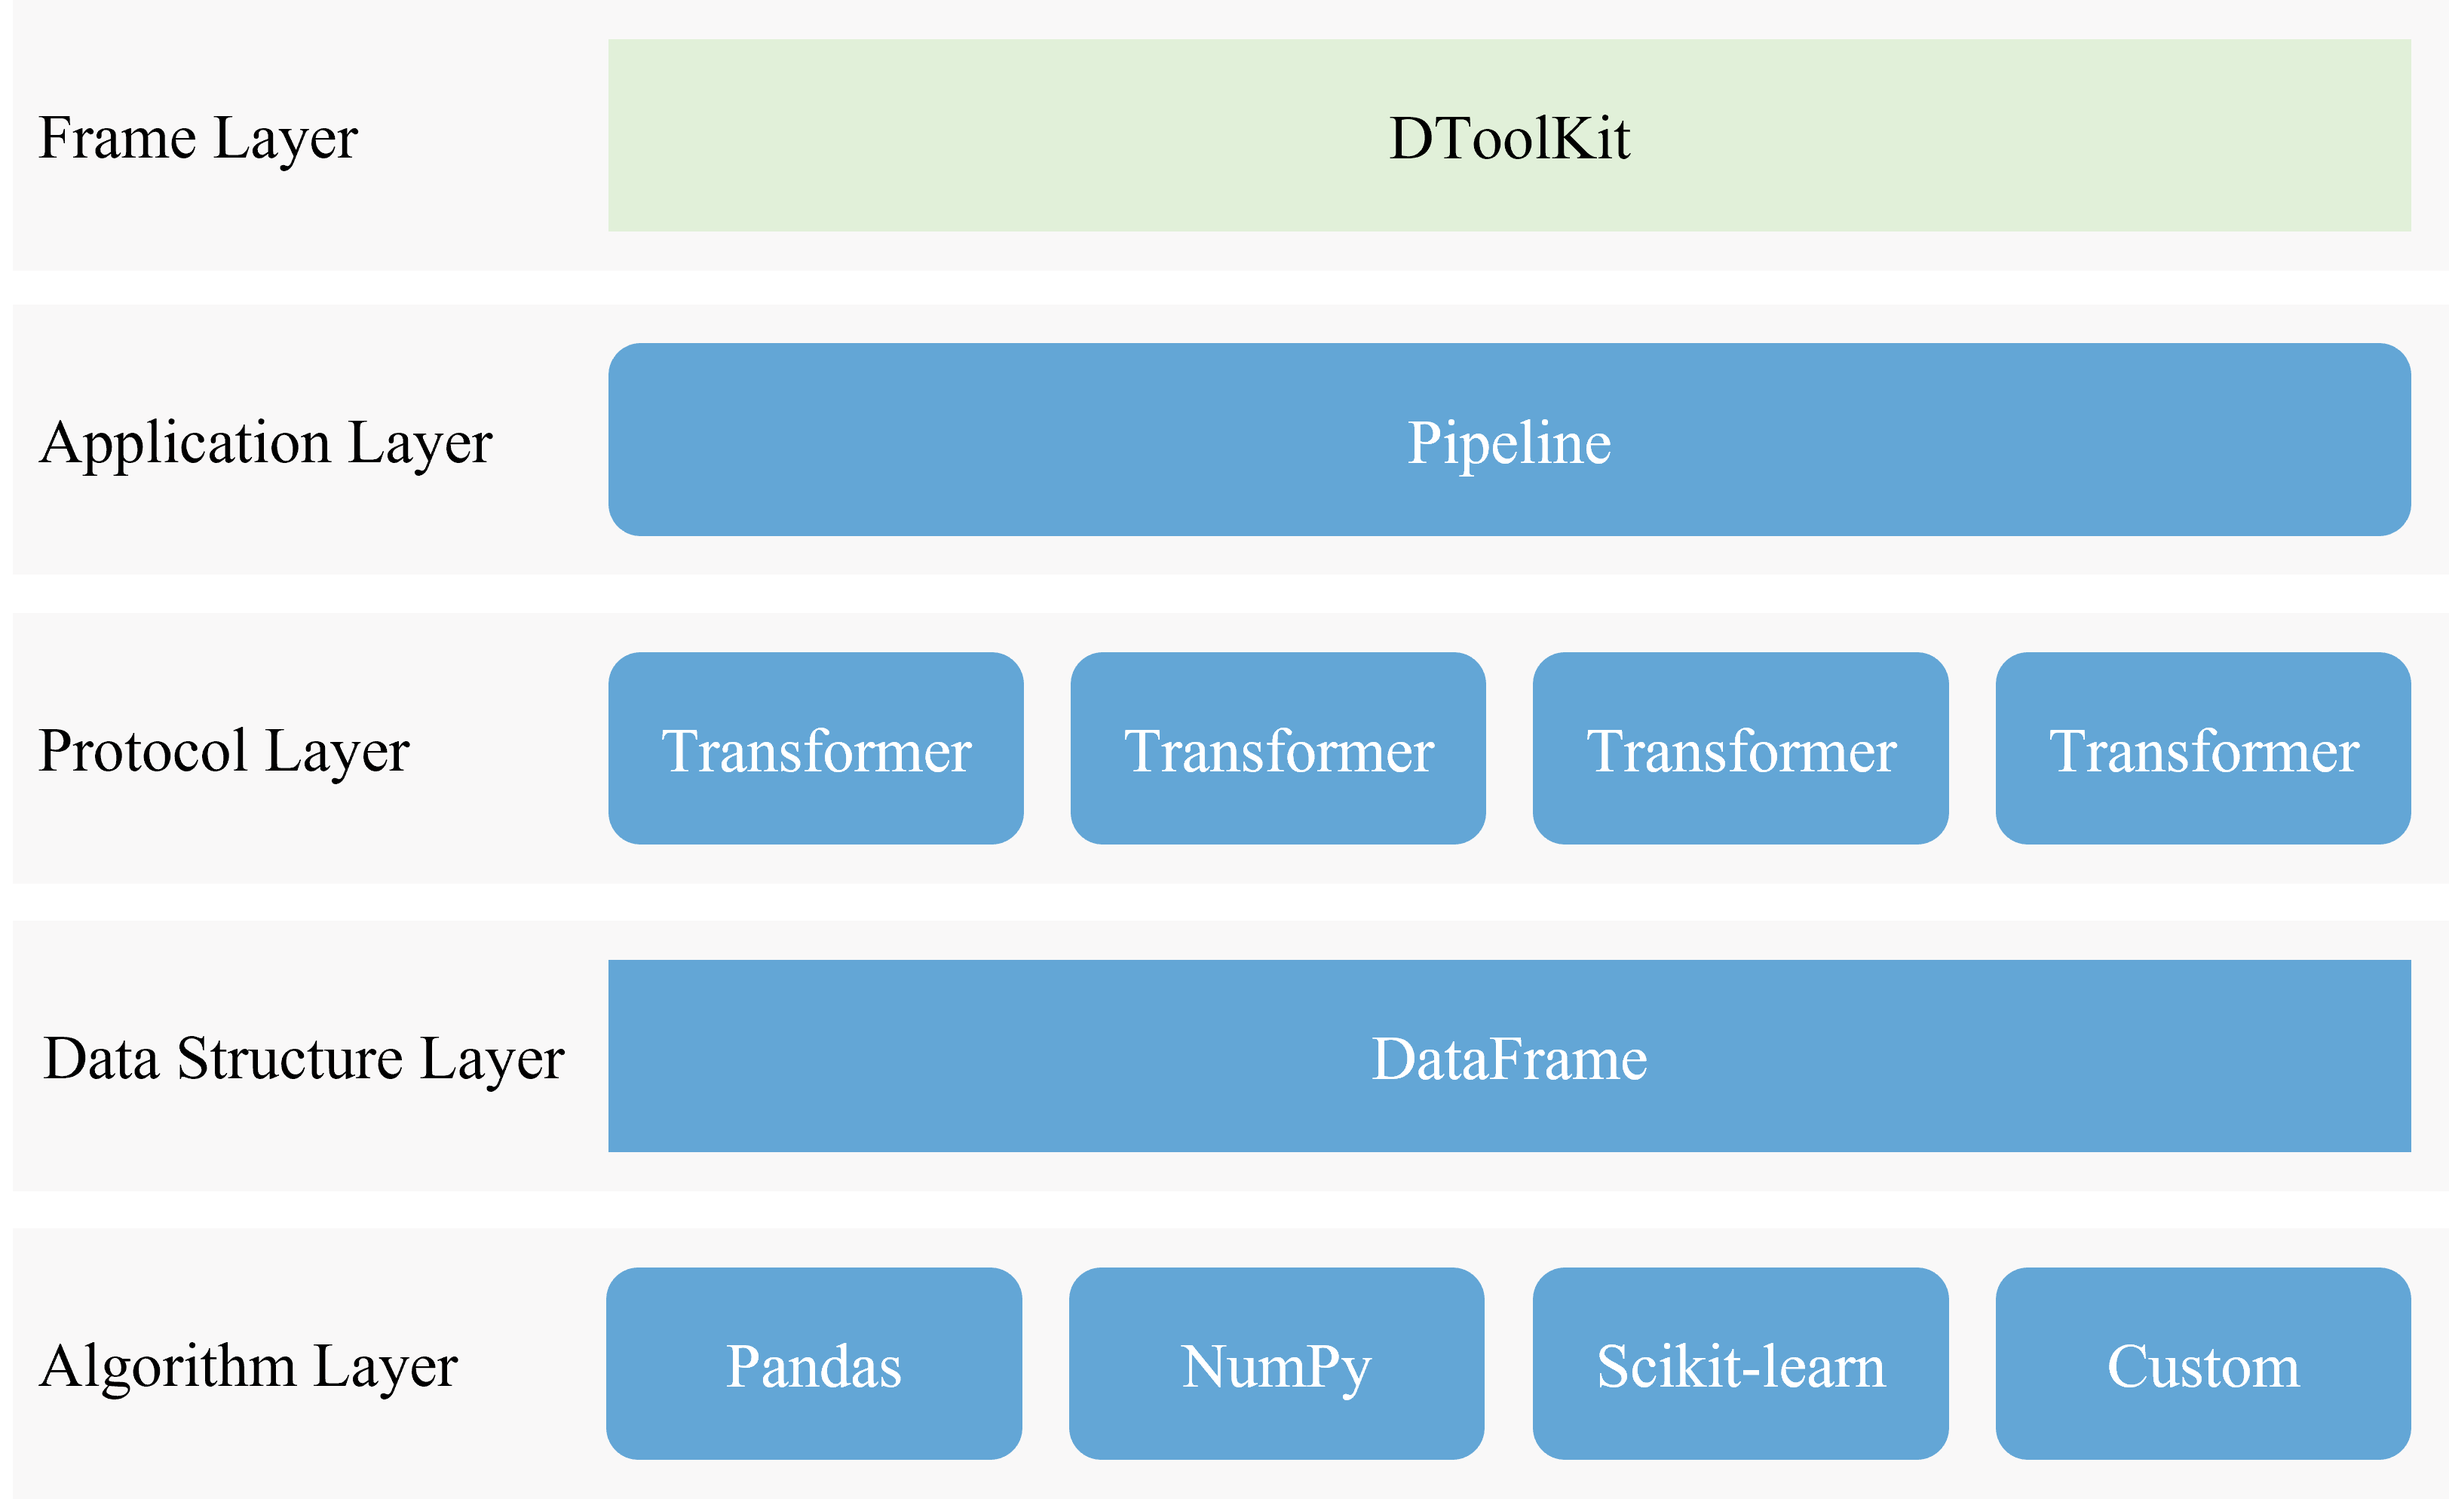
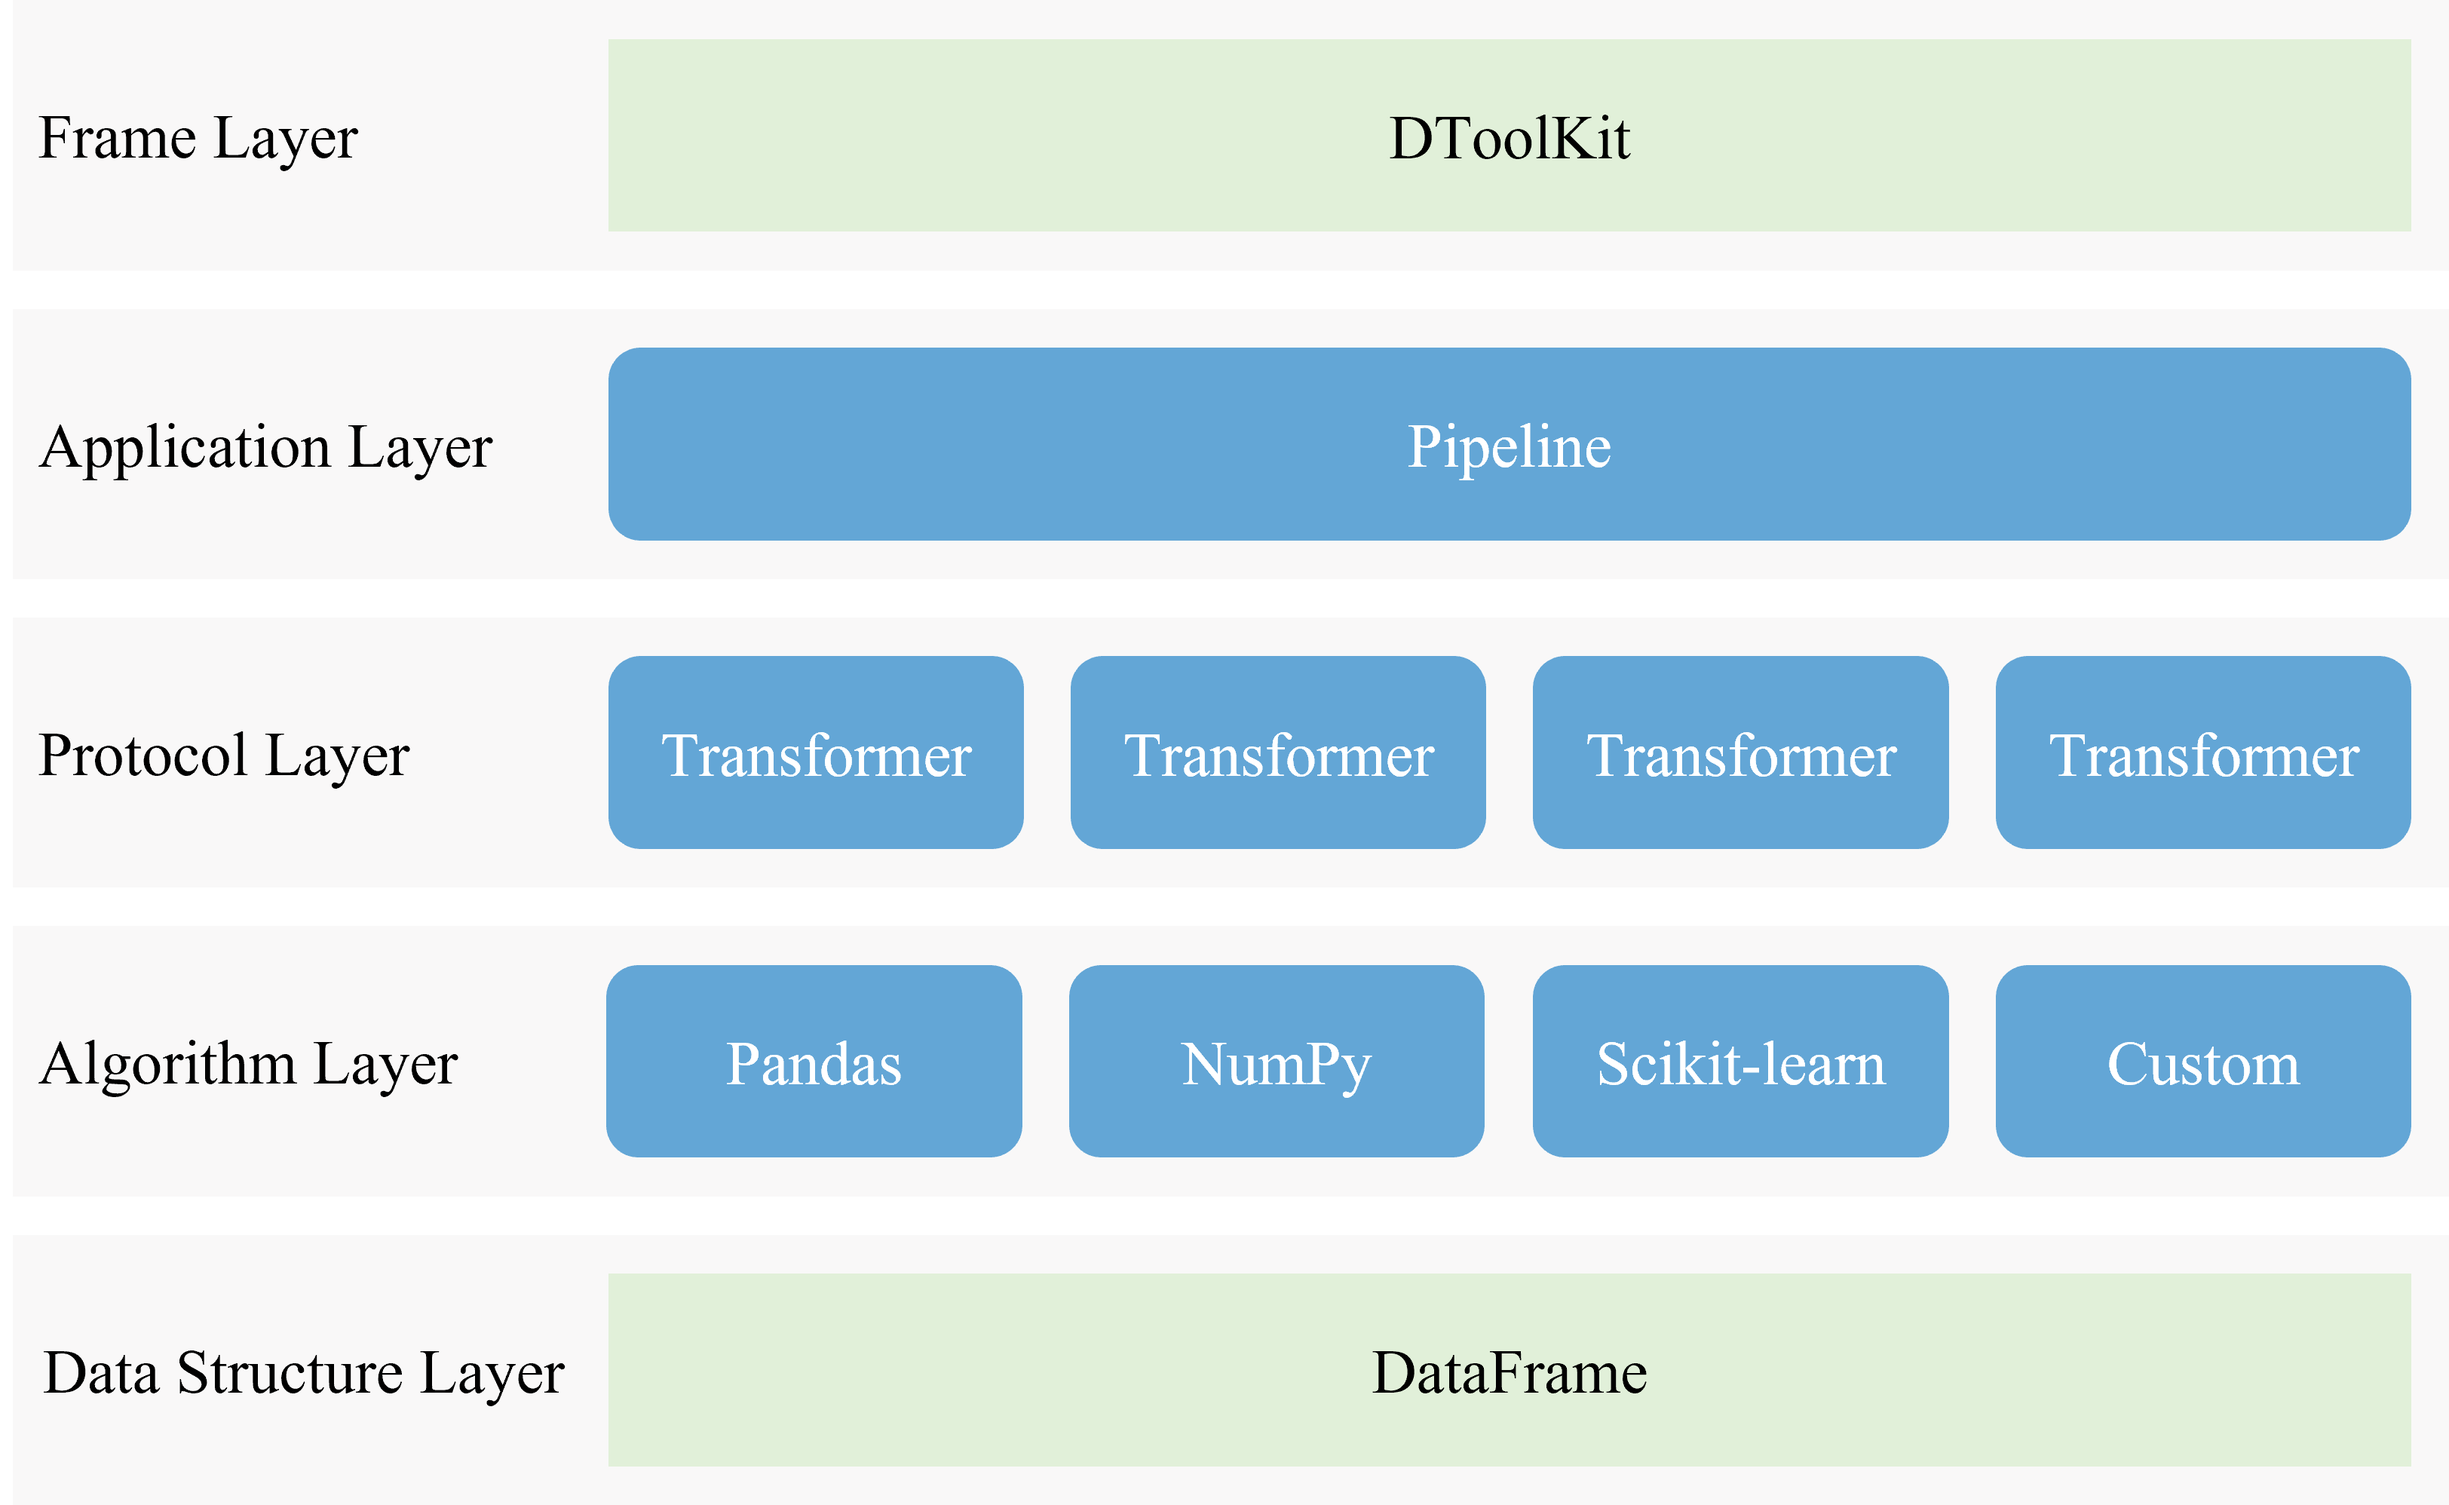
DOC: adjust graphs

diff --git a/doc/source/guide/transformer_description.md b/doc/source/guide/transformer_description.md
@@ -51,7 +51,7 @@ So {class}`dtoolkit.transformer` could handle what a mess codes of data preproce
 
 It can face to the engineering of data preprocessing.
 
-![DToolKit for transformer](../_static/transform-method-to-transformer.png)
+![DToolKit for transformer](../_static/transformer-with-pipeline.png)
 
 ### The Next Step
 
